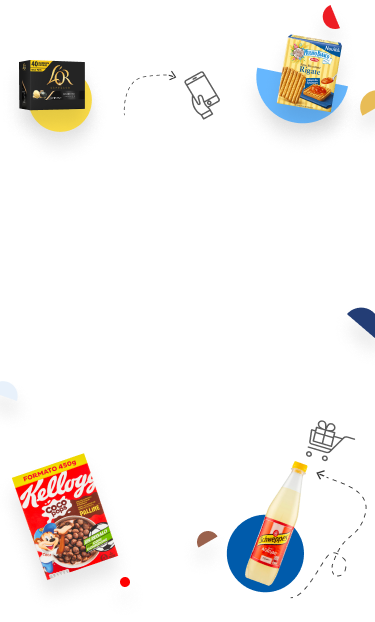
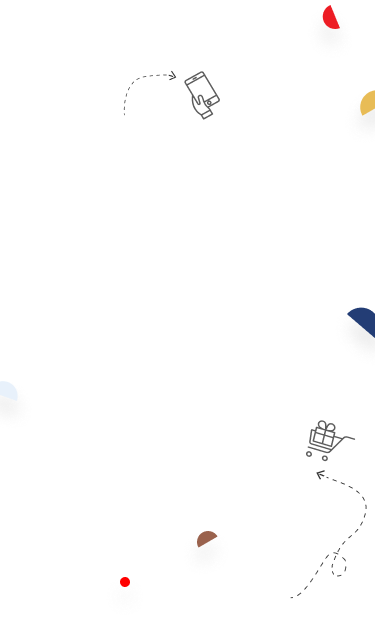
taking sponsor

diff --git a/src/shop/pages/Game/Game.js b/src/shop/pages/Game/Game.js
@@ -9,14 +9,12 @@ import Screen from "./Screen";
 import Button from "../../components/Button/Button";
 import { getWallet } from "../../../utils/catalinaRequests";
 import mobileHand from "../../resources/assets/img/mobile-ico.png";
-import Logo from "../../components/Logo/Logo";
-import SlotMachine from "../../components/Slotmachine/SlotMachine";
 
 const REDIRECTING_TIME = 800;
 
 function Game() {
   const [animated, setAnimated] = useState(false);
-  let [winner, setWinner] = useState(false);
+  let [winner, setWinner] = useState(true);
   let [isScreenFinished, setScreenFinished] = useState(false);
   const navigate = useNavigate();
   const [leverPulled] = useSound(leverSound, { volume: 0.05 });
@@ -44,7 +42,7 @@ function Game() {
           setWinner(isWinner);
         })
         .catch((err) => {
-          window.location.href = "/can-not-play";
+          //window.location.href = "/can-not-play";
           //navigate("/can-not-play");
         });
     }

diff --git a/src/utils/appApiConfiguration.js b/src/utils/appApiConfiguration.js
@@ -13,6 +13,7 @@ export function getAndApplyApiConfiguration(offer) {
   const offerTitle = offer.subtitle;
   localStorage.setItem("bgDesktopImageUrl", offer.picture_url);
   localStorage.setItem("bgMobileImageUrl", offer.picture_url + "mobile");
+  localStorage.setItem("footer", offer.carousel_pictures[0]);
   localStorage.setItem("winIcon", offer.brand_logo_url);
   return { offerTitle: offerTitle, startDate: startDate, endDate: endDate };
 }
@@ -36,7 +37,9 @@ export async function getWinIcon() {
     icoWin
   );
 }
-
+export async function getFooterImage() {
+  return getImageIfExistOrReturnDefault(localStorage.getItem("footer"), null);
+}
 async function getImageIfExistOrReturnDefault(imgUrl, defaultUrl) {
   return await fetch(imgUrl, { method: "HEAD" })
     .then((res) => {

diff --git a/src/shop/components/Footer/Footer.js b/src/shop/components/Footer/Footer.js
@@ -1,10 +1,27 @@
-import React from "react";
+import React, { useEffect, useState } from "react";
 import "./assets/style.scss";
 import { Link } from "@reach/router";
+import { getFooterImage } from "../../../utils/appApiConfiguration";
 
 function Footer() {
+  const [sponsors, setSponsors] = useState(null);
+  useEffect(() => {
+    getFooterImage().then((res) => setSponsors(res));
+  }, []);
+
+  function getSponsors() {
+    if (sponsors)
+      return (
+        <div className="sponsors">
+          <img src={sponsors} />
+        </div>
+      );
+    else return null;
+  }
+
   return (
     <div className="footer">
+      {getSponsors()}
       <div className="options">
         <a>Help (FAQ)</a>
         <Link to="legal/cgu">General conditions</Link>

diff --git a/src/shop/components/Footer/assets/style.scss b/src/shop/components/Footer/assets/style.scss
@@ -8,7 +8,9 @@
   display: flex;
   flex-direction: column;
   z-index: 100;
-
+  .sponsors {
+    display: none;
+  }
   .options {
     width: 100%;
     display: flex;
@@ -39,6 +41,13 @@
 
 @include mq($until: tablet-portrait) {
   .footer {
+    .sponsors {
+      display: flex;
+      justify-content: center;
+      align-items: center;
+      width: 100%;
+      background-color: #ffffff;
+    }
     position: absolute;
     bottom: inherit;
     .options {

diff --git a/src/shop/pages/Game/Screen.js b/src/shop/pages/Game/Screen.js
@@ -34,7 +34,6 @@ function Screen({ animate, speed, screenNumber, winner, onFinish }) {
     getWinIcon()
       .then((res) => {
         setIcoWin(res);
-        console.log(res);
       })
       .catch(setIcoWin(defaultIcoWin));
   }, []);
